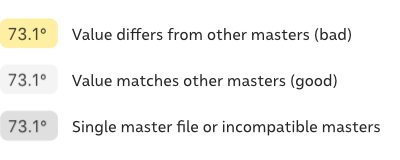
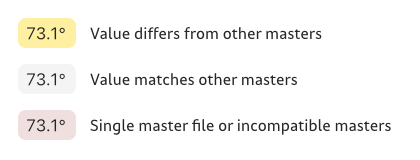
Increase difference between values match and incompatible masters labels

Changed region(s): [[0.0, 0.6875, 0.96, 0.875], [0.0, 0.0938, 0.9, 0.3125], [0.0, 0.4375, 0.84, 0.5625]]

diff --git a/Show Smooth Node Angle and Proportion.glyphsReporter/Contents/Resources/plugin.py b/Show Smooth Node Angle and Proportion.glyphsReporter/Contents/Resources/plugin.py
@@ -239,7 +239,7 @@ class showSmoothNodeAngleAndProportion(ReporterPlugin):
 		textColor = NSColor.colorWithCalibratedRed_green_blue_alpha_(0, 0, 0, .75)
 		if not layer.parent.mastersCompatible or layer.layerId not in self.masterIds or len(self.masterIds) == 1:
 			# If masters are not compatible, or if it is not a special layer
-			NSColor.colorWithCalibratedRed_green_blue_alpha_(.7, .7, .7, .5).set() # medium gray
+			NSColor.colorWithCalibratedRed_green_blue_alpha_(.85, .7, .7, .5).set() # reddish gray
 		elif compatible == True:
 			# If angle or proportion is the same
 			NSColor.colorWithCalibratedRed_green_blue_alpha_(.9, .9, .9, .5).set() # light gray
